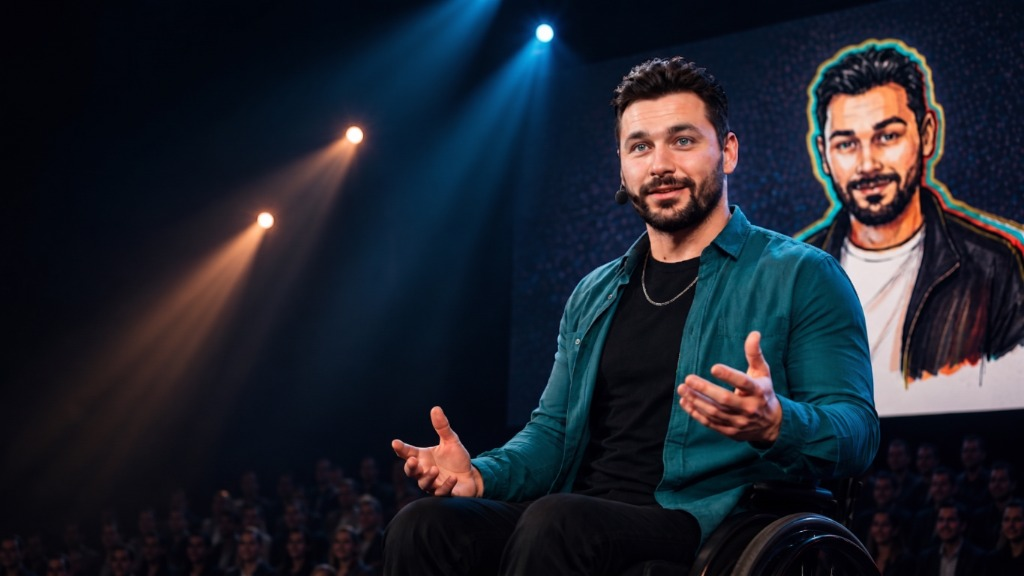
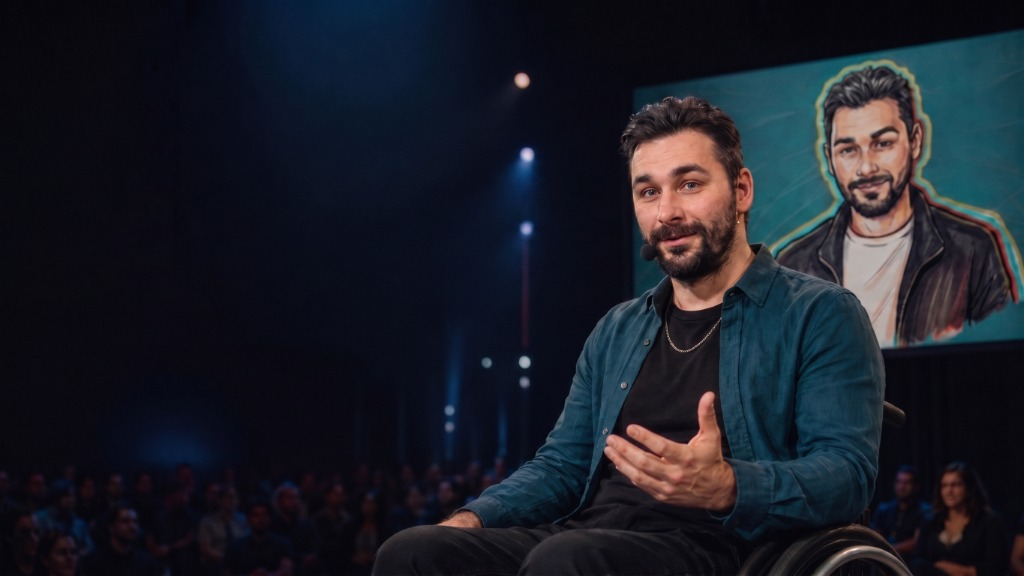
feat: update home hero background image with revised blue/teal backdrop and bump cache query versions

diff --git a/css/style.css b/css/style.css
@@ -673,7 +673,7 @@ img {
    Home Hero Section (Cinematic)
    ========================================================================== */
 .hero-sec {
-    background: linear-gradient(to right, rgba(7, 24, 39, 0.9) 0%, rgba(7, 24, 39, 0.55) 60%, rgba(7, 24, 39, 0.25) 100%), url('../assets/hero-speaking-stage.jpg?v=1') no-repeat center center / cover;
+    background: linear-gradient(to right, rgba(7, 24, 39, 0.9) 0%, rgba(7, 24, 39, 0.55) 60%, rgba(7, 24, 39, 0.25) 100%), url('../assets/hero-speaking-stage.jpg?v=2') no-repeat center center / cover;
     position: relative;
     padding: calc(var(--spacing-xl) + 110px) 0 var(--spacing-xl) 0;
     min-height: 85vh;
@@ -1442,7 +1442,7 @@ textarea.form-control {
     }
 
     .hero-sec {
-        background: linear-gradient(to bottom, rgba(7, 24, 39, 0.95) 0%, rgba(7, 24, 39, 0.65) 100%), url('../assets/hero-speaking-stage.jpg?v=1') no-repeat 65% center / cover;
+        background: linear-gradient(to bottom, rgba(7, 24, 39, 0.95) 0%, rgba(7, 24, 39, 0.65) 100%), url('../assets/hero-speaking-stage.jpg?v=2') no-repeat 65% center / cover;
         min-height: 70vh;
         padding: calc(var(--spacing-lg) + 100px) 0 var(--spacing-lg) 0;
     }

diff --git a/index.html b/index.html
@@ -22,7 +22,7 @@
         rel="stylesheet">
 
     <!-- Stylesheets -->
-    <link rel="stylesheet" href="css/style.css?v=64">
+    <link rel="stylesheet" href="css/style.css?v=65">
     <link rel="stylesheet" href="css/accessibility.css?v=4">
     <link rel="stylesheet" href="css/brain.css">
     <link rel="stylesheet" href="css/chat.css">
